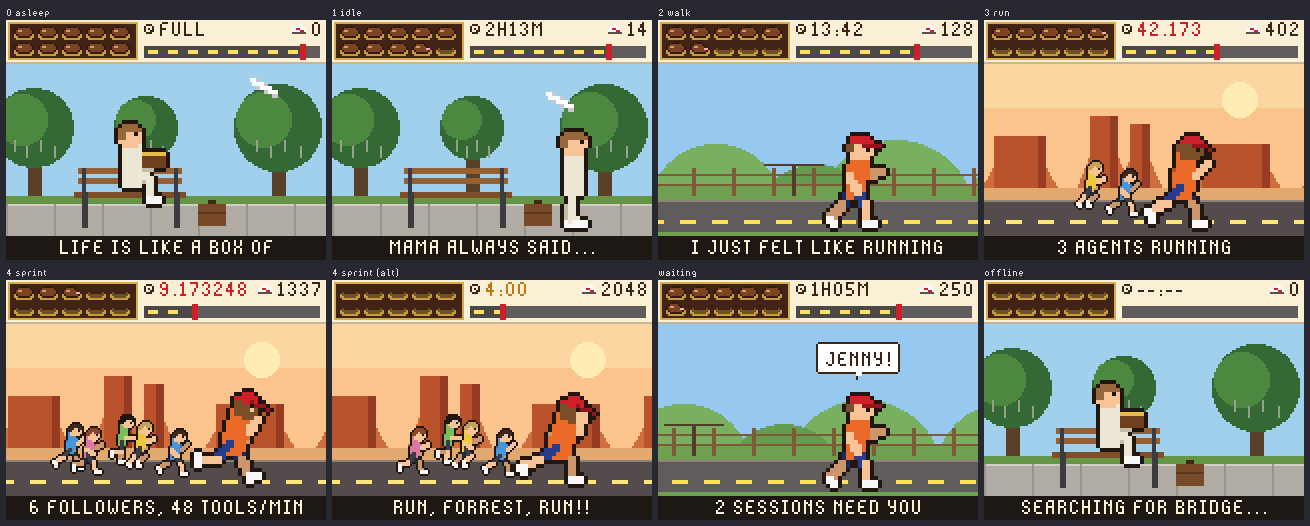
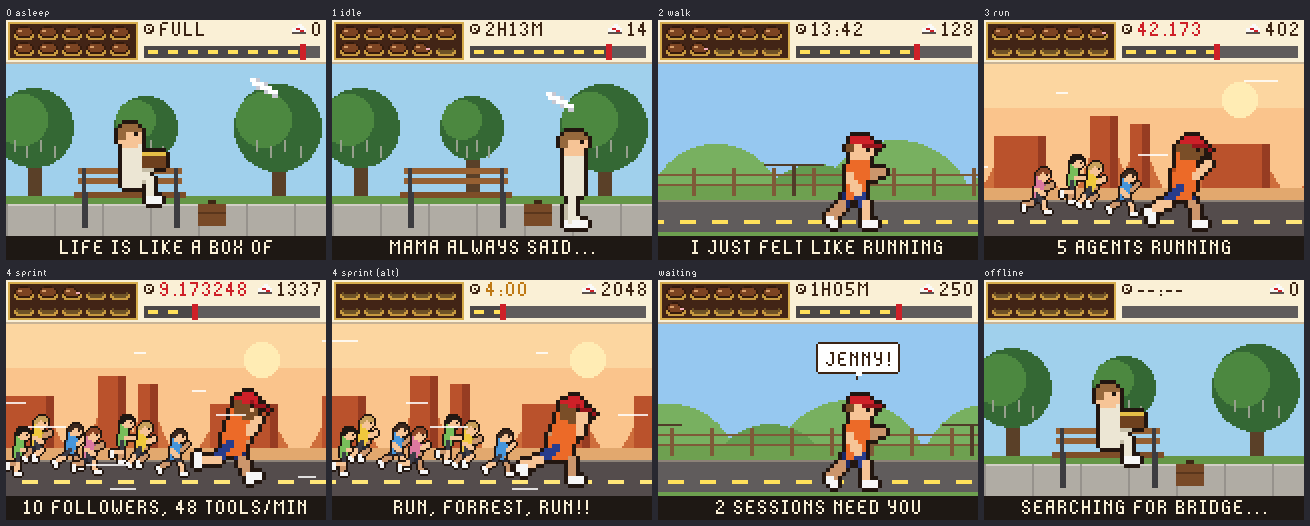
Show 15 activity levels, from 1 agent to hyperspace
Five levels could not tell 4 agents from 40. The badge now picks a level
from the agents working (busy sessions plus running subagents): 1 to 10
one at a time, then 11-25, 26-50, 51-75 and 76-100, and ULTRA above 100.
Levels 1-3 walk, 4-7 run and 8 up sprint; every level scrolls faster and
fx.py layers speed lines, sparks, heat haze and a pulsing edge over the
scene, and ULTRA dims it behind hyperspace star streaks. It lives in
scene.Theme, so every theme, and any new one, gets all 15.

The themes count agents instead of busy sessions in their counters and
captions, the hero's counters make room for three digits, and
tools/simulate.py --tiers renders all 15 levels. On the badge the heaviest
level draws in about 17 ms of its 40 ms frame.

diff --git a/badge/apps/hearts_left/scene.py b/badge/apps/hearts_left/scene.py
@@ -3,6 +3,7 @@
 import math
 import time
 import gfx
+import fx
 
 W = gfx.W
 H = gfx.H
@@ -15,6 +16,41 @@ GAIT = {WALK: ("walk", 9), RUN: ("run", 13), SPRINT: ("sprint", 16)}
 # background scroll speed in pixels per second
 SPEED = {SLEEP: 0, IDLE: 0, WALK: 18, RUN: 46, SPRINT: 78}
 
+# Activity tiers by how many agents are working (busy sessions + running subagents):
+# 1 to 10 one agent at a time, then 11-25, 26-50, 51-75, 76-100, and ULTRA above 100.
+MAX_TIER = ULTRA = 15
+BANDS = ((25, 11), (50, 12), (75, 13), (100, 14))
+TIER_TEXT = {11: "11-25", 12: "26-50", 13: "51-75", 14: "76-100", 15: "100+"}
+
+
+def tier_for(agents):
+    if agents <= 0:
+        return 0
+    if agents <= 10:
+        return agents
+    for top, tier in BANDS:
+        if agents <= top:
+            return tier
+    return ULTRA
+
+
+def gait_for(tier):
+    """The level whose gait a tier uses: walk for 1-3, run for 4-7, sprint from 8."""
+    return WALK if tier <= 3 else (RUN if tier <= 7 else SPRINT)
+
+
+def tier_caption(st, t, ultra_line):
+    """A caption for the top tiers, or None to let the theme use its own."""
+    if st.tier >= ULTRA:
+        return ultra_line if (t // 2500) % 2 == 0 else "%d AGENTS: ULTRA" % st.agents
+    if st.tier > 10 and (t // 3000) % 2:
+        return "%d AGENTS AT WORK" % st.agents
+    return None
+
+
+# the scene area between the themes' top bar and caption, where tier effects are drawn
+FX_TOP, FX_BOTTOM = 22, 108
+
 
 class Status:
     """What the themes draw. Filled from the bridge's /status JSON."""
@@ -24,7 +60,10 @@ class Status:
         self.hearts = None      # remaining 5-hour budget, half units 0..20
         self.week = None        # remaining 7-day budget, 0..1
         self.busy = 0
+        self.agents = 0         # busy sessions + running subagents
+        self.tier = 0           # 0 none working, 1..MAX_TIER (see tier_for)
         self.waiting = 0
+        self.waiting_list = []  # [(session name, seconds waiting)], longest first, if the bridge sends it
         self.idle = 0
         self.sessions = 0
         self.subagents = 0
@@ -58,12 +97,19 @@ class Status:
         self.reset7 = (wk or {}).get("resets_at")
         self.busy = int(d.get("busy") or 0)
         self.waiting = int(d.get("waiting") or 0)
+        wl = []
+        for w in d.get("waiting_list") or []:
+            try:
+                wl.append((str(w.get("n") or "session")[:24], int(w.get("s") or 0)))
+            except (AttributeError, TypeError, ValueError):
+                pass
+        self.waiting_list = wl[:4]
         self.idle = int(d.get("idle") or 0)
         self.sessions = int(d.get("sessions") or 0)
         self.subagents = int(d.get("subagents") or 0)
         self.tpm = int(d.get("tpm") or 0)
         self.tools = int(d.get("tools_today") or 0)
-        self.waiting_list = []  # [(session name, seconds waiting)], longest first, if the bridge sends it
+        self.set_agents(self.busy + self.subagents)
         self.clock = d.get("clock") or ""
         now_ms = d.get("now_ms")
         if now_ms is None and d.get("ts") is not None:
@@ -93,17 +139,17 @@ class Status:
         us = time.ticks_diff(time.ticks_us(), self._at_us) if ms < 500000 else ms * 1000
         return self._now_ms * 1000 + us
 
+    def set_agents(self, n):
+        """Set the working-agent count; while any work, the tier picks the gait."""
+        self.agents = max(0, int(n))
+        self.tier = tier_for(self.agents)
+        if self.tier:
+            self.level = gait_for(self.tier)
+
     def tick(self):
         """Refresh the countdowns; call once per frame."""
         now = self._now_us()
         self.left5 = None if (now is None or not self.reset5) else int(self.reset5) * 1000000 - now
-        wl = []
-        for w in d.get("waiting_list") or []:
-            try:
-                wl.append((str(w.get("n") or "session")[:24], int(w.get("s") or 0)))
-            except (AttributeError, TypeError, ValueError):
-                pass
-        self.waiting_list = wl[:4]
         self.left7 = None if (now is None or not self.reset7) else int(self.reset7) * 1000000 - now
 
 
@@ -141,7 +187,7 @@ class Theme:
             self.last_t = t
         dt = max(0, min(200, t - self.last_t)) / 1000.0
         self.last_t = t
-        boost = 1.0 + min(st.tpm, 60) / 150.0
+        boost = (1.0 + min(st.tpm, 60) / 150.0) * (1.0 + 0.06 * max(0, st.tier - 1))
         self.scroll += SPEED.get(st.level, 0) * boost * dt
         if self.shown_level != st.level:
             self.shown_level = st.level
@@ -156,6 +202,8 @@ class Theme:
             self.ready = True
         self.advance(st, t)
         self.render(st, t)
+        if st.tier:
+            fx.draw(st.tier, t, FX_TOP, FX_BOTTOM)
 
     def render(self, st, t):
         pass

diff --git a/tools/simulate.py b/tools/simulate.py
@@ -4,6 +4,7 @@
     python3 tools/simulate.py                 # contact sheet per theme -> tools/sim/out/
     python3 tools/simulate.py hero           # one theme
     python3 tools/simulate.py --frames hero 3   # animation frames for level 3
+    python3 tools/simulate.py --tiers hero      # all 15 activity tiers, 1 agent to ULTRA
 
 The drawing code is the same module the badge runs; only the picovector API is
 replaced by tools/sim/pvshim.py, which follows the pixel rules measured on the
@@ -29,7 +30,7 @@ SCENARIOS = [
     ("0 asleep", 1000, dict(level=0, hearts=20, week=0.92, busy=0, sessions=2, tools=0, left5=-3600 * M)),
     ("1 idle", 2000, dict(level=1, hearts=17, week=0.8, busy=0, sessions=3, tools=14, left5=(2 * 3600 + 13 * 60) * M)),
     ("2 walk", 3100, dict(level=2, hearts=13, week=0.7, busy=1, sessions=3, tools=128, tpm=6, left5=(13 * 60 + 42) * M)),
-    ("3 run", 4200, dict(level=3, hearts=9, week=0.55, busy=3, sessions=5, tools=402, tpm=22, left5=42173000)),
+    ("3 run", 4200, dict(level=3, hearts=9, week=0.55, busy=5, sessions=7, tools=402, tpm=22, left5=42173000)),
     ("4 sprint", 5300, dict(level=4, hearts=5, week=0.3, busy=6, sessions=8, tools=1337, tpm=48, subagents=4, left5=9173248)),
     ("4 sprint (alt)", 7350, dict(level=4, hearts=3, week=0.2, busy=5, sessions=8, tools=2048, tpm=55, subagents=3, left5=4 * 60 * M)),
     ("waiting", 6000, dict(level=2, hearts=11, week=0.6, busy=1, waiting=2, sessions=4, tools=250, tpm=4, left5=(65 * 60) * M)),
@@ -43,6 +44,8 @@ def status(**kw):
     st.net = ""
     for k, v in kw.items():
         setattr(st, k, v)
+    if "busy" in kw or "subagents" in kw:
+        st.set_agents(st.busy + st.subagents)    # the tier picks the gait, as on the badge
     return st
 
 
@@ -94,6 +97,36 @@ def sheet(name):
     return path
 
 
+TIER_AGENTS = (1, 2, 3, 4, 5, 6, 7, 8, 9, 10, 18, 40, 63, 88, 128)   # one count inside each tier
+
+
+def tiers(name):
+    """Every activity tier on one sheet: 1-10 agents, the four bands, then ULTRA."""
+    theme = load(name)
+    cols, scale, pad = 5, 2, 6
+    tw, th = 160 * scale, 120 * scale
+    big = pvshim.image(cols * (tw + pad) + pad, 3 * (th + pad + 14) + pad)
+    big.pen = pvshim.color(40, 40, 48)
+    big.clear()
+    big.font = pvshim.font.sins
+    for i, agents in enumerate(TIER_AGENTS):
+        st = status(level=2, hearts=12, week=0.6, busy=agents, sessions=agents + 2, tools=400, tpm=20,
+                    left5=(65 * 60) * M)
+        theme.last_t = None
+        img = render(theme, st, 5200)
+        tier = st.tier
+        label = "%d: %s" % (tier, "%d agent%s" % (agents, "" if agents == 1 else "s") if tier <= 10
+                            else (scene.TIER_TEXT[tier] + " agents" if tier < 15 else "ULTRA, 100+ agents"))
+        x = pad + (i % cols) * (tw + pad)
+        y = pad + (i // cols) * (th + pad + 14)
+        big.pen = pvshim.color(220, 220, 220)
+        big.text(label, x, y)
+        big.blit(img, pvshim.rect(x, y + 14, tw, th))
+    path = os.path.join(OUT, "tiers_%s.png" % name)
+    big.to_png(path, 1)
+    return path
+
+
 def frames(name, level):
     theme = load(name)
     kw = dict(SCENARIOS[min(level, 4)][2])
@@ -110,6 +143,10 @@ def frames(name, level):
 
 def main(argv):
     os.makedirs(OUT, exist_ok=True)
+    if argv and argv[0] == "--tiers":
+        for name in (argv[1:] or THEMES):
+            print(tiers(name))
+        return
     if argv and argv[0] == "--frames":
         print(frames(argv[1], int(argv[2])))
         return

diff --git a/badge/apps/hearts_left/fx.py b/badge/apps/hearts_left/fx.py
@@ -1,0 +1,77 @@
+# Effects drawn over any theme's scene to show how many agents are working (the activity
+# tier, see scene.tier_for). Each tier adds a little more, so all 15 look different:
+#   1-10    one agent at a time: more and faster speed lines (the gait comes from the theme)
+#   11-14   the bands 11-25, 26-50, 51-75, 76-100: sparks, then heat haze, then a pulsing edge
+#   15      ULTRA, over 100 agents: the scene dims behind hyperspace star streaks
+# Only the scene area is touched, never the theme's top bar or caption. Nothing is
+# allocated per frame.
+
+import math
+
+# per tier: speed lines, sparks, haze alpha, pulsing edge
+LINES = (0, 0, 1, 2, 3, 4, 5, 6, 7, 8, 9, 11, 13, 15, 17, 0)
+SPARKS = (0, 0, 0, 0, 0, 0, 0, 0, 0, 0, 0, 4, 8, 12, 16, 0)
+HAZE = (0, 0, 0, 0, 0, 0, 0, 0, 0, 0, 0, 0, 0, 26, 38, 0)
+EDGE = (False,) * 14 + (True, False)
+
+STREAKS = 40
+_DIRS = [(math.cos(i * 2.39996), math.sin(i * 2.39996)) for i in range(STREAKS)]   # golden-angle spread
+
+
+def draw(tier, t, top, bottom):
+    if tier <= 0:
+        return
+    tier = min(tier, 15)
+    if tier == 15:
+        hyperspace(t, top, bottom)
+        return
+    h = bottom - top
+    if HAZE[tier]:
+        screen.pen = color.rgb(255, 140, 40, HAZE[tier])
+        screen.rectangle(0, top, 160, h)
+    if EDGE[tier]:
+        a = int(70 + 60 * math.sin(t / 160.0))
+        screen.pen = color.rgb(255, 70, 40, a)
+        screen.rectangle(0, top, 3, h)
+        screen.rectangle(157, top, 3, h)
+    speed = 0.12 + 0.02 * tier            # pixels per millisecond
+    screen.pen = color.rgb(255, 255, 255, 210)
+    for i in range(LINES[tier]):
+        y = top + 3 + (i * 37 + 11) % (h - 6)
+        length = 6 + (i * 13) % 15
+        x = 160 - int((t * speed + i * 53) % 200)
+        screen.rectangle(x, y, length, 1)
+    n = SPARKS[tier]
+    if n:
+        k = t // 70
+        for i in range(n):
+            seed = (i * 7919 + k * 104729) % 65521
+            x = seed % 160
+            y = top + (seed // 160) % h
+            screen.pen = color.rgb(255, 230 - (seed % 3) * 40, 120, 220)
+            screen.rectangle(x, y, 2 if seed % 5 == 0 else 1, 1)
+
+
+def hyperspace(t, top, bottom):
+    """Over 100 agents: the scene dims and stars streak out from a vanishing point."""
+    h = bottom - top
+    screen.pen = color.rgb(6, 8, 30, 150)
+    screen.rectangle(0, top, 160, h)
+    cx, cy = 80, top + h // 2
+    for i in range(STREAKS):
+        dx, dy = _DIRS[i]
+        phase = ((t / 900.0) + i / STREAKS) % 1.0
+        r0 = 3 + phase * phase * 110
+        r1 = r0 + 4 + phase * 22
+        x0, y0 = cx + dx * r0, cy + dy * r0
+        x1, y1 = cx + dx * r1, cy + dy * r1
+        # keep the streaks inside the scene area
+        if y0 < top or y0 >= bottom:
+            continue
+        if y1 < top:
+            x1, y1 = x0 + (x1 - x0) * (top - y0) / (y1 - y0), top
+        elif y1 >= bottom:
+            x1, y1 = x0 + (x1 - x0) * (bottom - 1 - y0) / (y1 - y0), bottom - 1
+        b = int(120 + 135 * phase)
+        screen.pen = color.rgb(b * 3 // 4, b * 7 // 8, b, 255)
+        screen.line(int(x0), int(y0), int(x1), int(y1))

diff --git a/badge/apps/hearts_left/theme_hero.py b/badge/apps/hearts_left/theme_hero.py
@@ -224,9 +224,11 @@ class Theme(S.Theme):
         screen.blit(self.rupee, vec2(3, 2))
         gfx.text("x%d" % min(st.tools, 9999), 10, -1, WHITE, font.sins)
         screen.blit(self.boomerang, vec2(3, 12))
-        gfx.text("x%d" % st.busy, 12, 9, WHITE, font.sins)
-        screen.blit(self.ocarina, vec2(30, 12))
-        gfx.text("x%d" % st.waiting, 40, 9, WHITE, font.sins)
+        busy = "x%d" % st.agents
+        gfx.text(busy, 12, 9, WHITE, font.sins)
+        ox = max(30, 12 + gfx.width(busy, font.sins) + 3)    # make room for 3-digit counts
+        screen.blit(self.ocarina, vec2(ox, 12))
+        gfx.text("x%d" % st.waiting, ox + 10, 9, WHITE, font.sins)
 
         gfx.text("-LIFE-", 76, -2, RED, font.sins)
         # time until the hearts refill (the 5-hour window resets)
@@ -253,12 +255,15 @@ class Theme(S.Theme):
             return "%d QUEST%s NEED YOU!" % (st.waiting, "" if st.waiting == 1 else "S")
         if st.hearts is not None and st.hearts <= 4 and (t // 3000) % 2:
             return "LOW HEARTS! REFILL IN " + gfx.countdown(st.left5)
+        tc = S.tier_caption(st, t, "HYPERSPACE JUMP!")
+        if tc:
+            return tc
         lv = st.level
         if lv == S.SLEEP:
             return "LINK IS ASLEEP... ZZZ"
         if lv == S.IDLE:
             return "WAITING FOR A QUEST"
-        n = max(1, st.busy)
+        n = max(1, st.agents)
         if lv == S.WALK:
             return "%d AGENT%s ON A QUEST" % (n, "" if n == 1 else "S")
         if lv == S.RUN:

diff --git a/badge/apps/hearts_left/theme_chocolates.py b/badge/apps/hearts_left/theme_chocolates.py
@@ -234,7 +234,7 @@ class Theme(S.Theme):
         else:
             img = self.frame(self.sprint, t, 15)
             x = 84
-        followers = 0 if lv == S.WALK else min(max(st.busy - 1, 1 if lv == S.SPRINT else 0), 7)
+        followers = 0 if lv == S.WALK else min(max(st.agents - 1, 1 if lv == S.SPRINT else 0), 7)
         for i in range(followers - 1, -1, -1):
             frames = self.crowd[i % len(self.crowd)]
             fimg = frames[int(t * 14 / 1000 + i * 3) % len(frames)]
@@ -295,6 +295,9 @@ class Theme(S.Theme):
             return "%d SESSION%s NEED YOU" % (st.waiting, "" if st.waiting == 1 else "S")
         if st.hearts is not None and st.hearts <= 4 and (t // 3000) % 2:
             return "I'M PRETTY TIRED... %d CHOCOLATE%s LEFT" % ((st.hearts + 1) // 2, "" if (st.hearts + 1) // 2 == 1 else "S")
+        tc = S.tier_caption(st, t, "RUNNING INTO HYPERSPACE!")
+        if tc:
+            return tc
         lv = st.level
         alt = (t // 3500) % 2
         if lv == S.SLEEP:
@@ -303,7 +306,7 @@ class Theme(S.Theme):
             return "MAMA ALWAYS SAID..." if alt == 0 else "STUPID IS AS STUPID DOES"
         if lv == S.WALK:
             return "I JUST FELT LIKE RUNNING"
-        n = max(1, st.busy)
+        n = max(1, st.agents)
         if lv == S.RUN:
             return "RUN, FORREST, RUN!" if alt == 0 else "%d AGENTS RUNNING" % n
         return "RUN, FORREST, RUN!!" if alt == 0 else "%d FOLLOWERS, %d TOOLS/MIN" % (n, st.tpm)

diff --git a/tools/sim/test_tiers.py b/tools/sim/test_tiers.py
@@ -1,0 +1,26 @@
+#!/usr/bin/env python3
+"""The activity tiers: 1-10 one agent at a time, then 11-25, 26-50, 51-75, 76-100, then ULTRA."""
+import os, sys
+HERE = os.path.dirname(os.path.abspath(__file__))
+sys.path.insert(0, HERE)
+import harness  # noqa: E402
+harness.install()
+import scene as S  # noqa: E402
+
+expect = {0: 0, 1: 1, 2: 2, 9: 9, 10: 10, 11: 11, 25: 11, 26: 12, 50: 12, 51: 13, 75: 13,
+          76: 14, 100: 14, 101: 15, 5000: 15}
+for agents, tier in expect.items():
+    assert S.tier_for(agents) == tier, (agents, S.tier_for(agents), tier)
+assert len({S.tier_for(n) for n in range(1, 300)}) == 15, "there must be exactly 15 tiers"
+
+for tier, level in ((1, S.WALK), (3, S.WALK), (4, S.RUN), (7, S.RUN), (8, S.SPRINT), (15, S.SPRINT)):
+    assert S.gait_for(tier) == level, (tier, S.gait_for(tier))
+
+st = S.Status()
+st.update({"level": 1, "busy": 6, "subagents": 2, "waiting": 1,
+           "waiting_list": [{"n": "api-server", "s": 95}, {"bad": 1}, "junk"]})
+assert (st.agents, st.tier, st.level) == (8, 8, S.SPRINT), (st.agents, st.tier, st.level)
+assert st.waiting_list == [("api-server", 95), ("session", 0)], st.waiting_list
+st.update({"level": 0, "busy": 0, "subagents": 0})
+assert (st.tier, st.level) == (0, S.SLEEP), "no agents: the bridge's asleep/idle level stands"
+print("PASS 15 tiers (1-10, 11-25, 26-50, 51-75, 76-100, 100+), gaits, agent count, waiting list")

diff --git a/badge/apps/hearts_left/theme_gameshow.py b/badge/apps/hearts_left/theme_gameshow.py
@@ -320,8 +320,11 @@ class Theme(S.Theme):
             return "AUDIENCE VOTE: YOUR MOVE!"
         if st.hearts is not None and st.hearts <= 4 and (t // 3000) % 2:
             return "COLLAR LOW! RECHARGE " + gfx.countdown(st.left5)
+        tc = S.tier_caption(st, t, "ULTRA RATINGS: HYPERSPACE!")
+        if tc:
+            return tc
         lv = st.level
-        n = max(1, st.busy)
+        n = max(1, st.agents)
         if lv == S.SLEEP:
             return "OFF AIR - RUNNER ASLEEP"
         if lv == S.IDLE:
